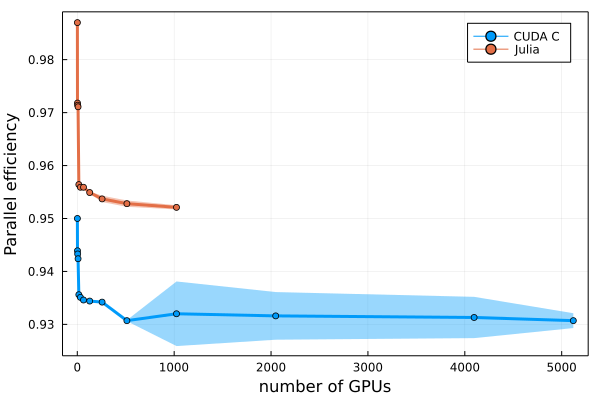
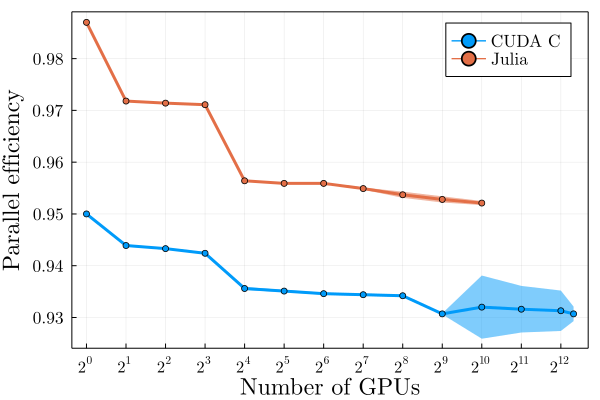
update plotting script for weak scaling (#2)

diff --git a/julia-mpi-scaling/README.md b/julia-mpi-scaling/README.md
@@ -1,0 +1,11 @@
+# Parallel efficiency on a weak scaling benchmark
+
+This folder contains raw data of a weak scaling benchmark from 1 to 1024
+Nvidia P100 GPUs on the Cray XC 50 Piz Daint at CSCS. The raw data are
+contained in the plotting script `julia_c_scale_daint.jl`. To reproduce
+the figure, execute
+```bash
+julia julia_c_scale_daint.jl
+```
+
+The script was created for Julia v1.7.2.
